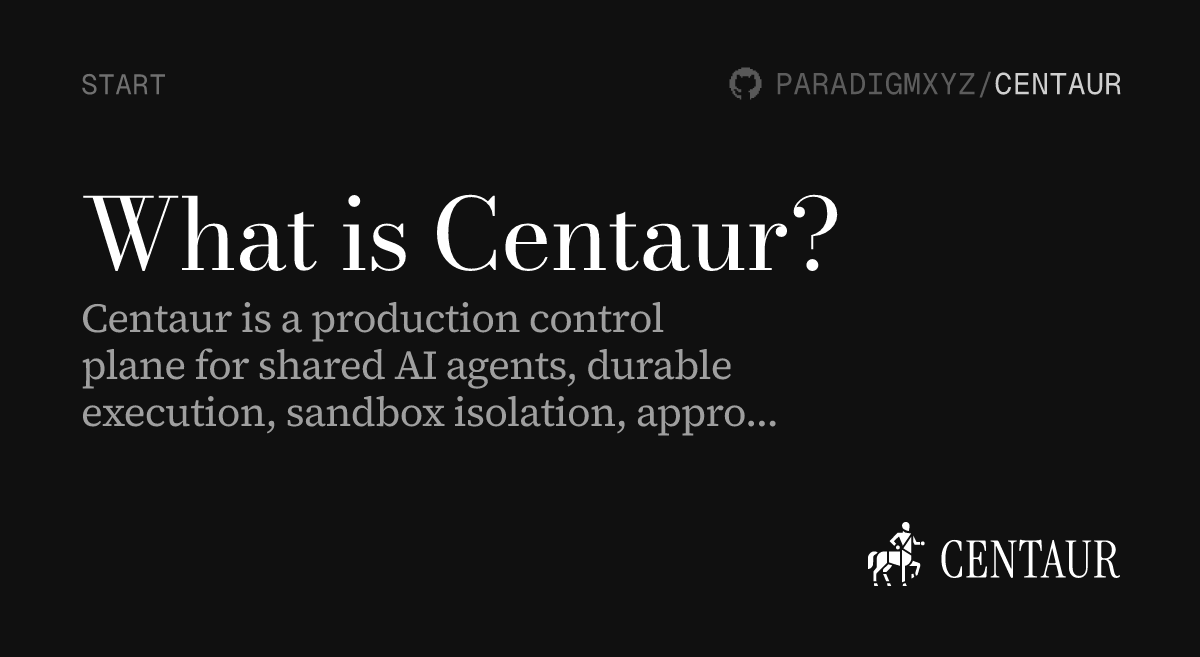
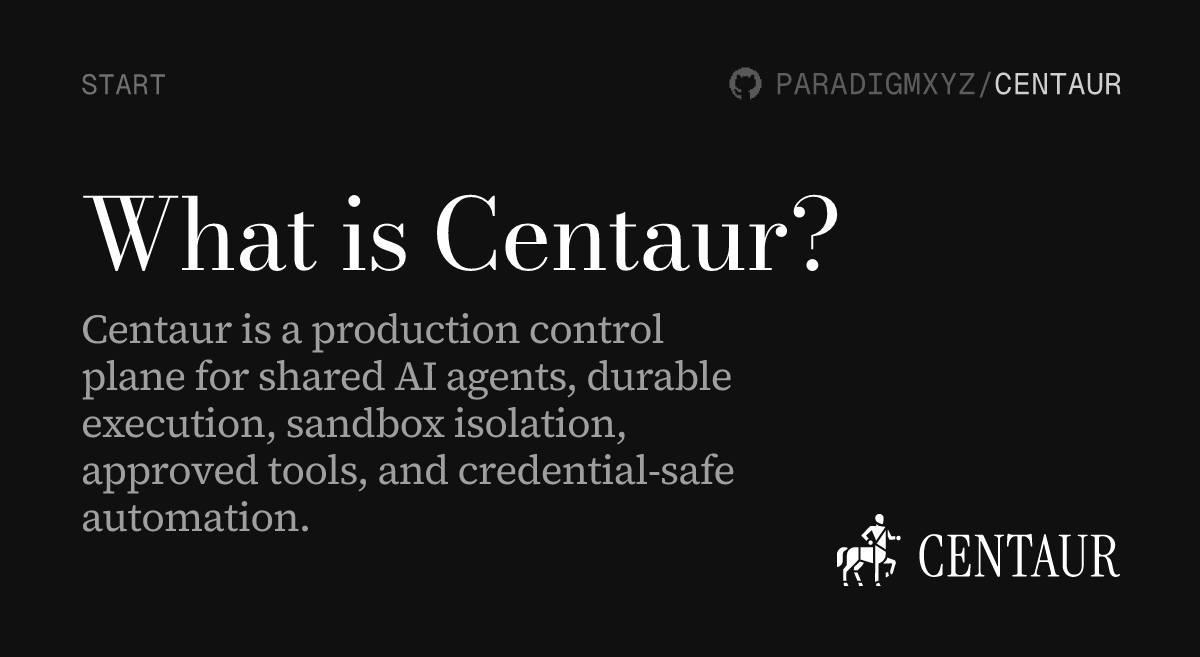
docs(og): adopt new template + image, no-truncate description wrap
- Replace docs/scripts/og-template.svg with og-template-a.svg export
  from the latest Figma source. Patch CATEGORY id + Geist Mono font on
  the static eyebrow/repo-label tspans so resvg's loaded fonts render
  with correct kerning (Berkeley Mono Variable falls back unpredictably
  and was making PARADIGMXYZ/CENTAUR collide).
- Replace docs/public/brand/og-image.svg with the matching homepage
  export; same font swap on the bottom repo label.
- Drop wrapText's ellipsis fallback — descriptions now wrap to as many
  lines as needed (soft cap 5) instead of being truncated with '…'.
- Bump TITLE_TO_DESC_BASELINE_GAP 62 -> 73 to match the new template's
  visual spacing — the previous gap felt squished.
- Raise DESC_BASELINE_MAX_Y 470 -> 540 so dense pages (e.g. /security
  with a 2-line title + 5-line description) don't push the title above
  the eyebrow. Text on the left and the centaur silhouette on the right
  don't overlap horizontally so the extra vertical room is safe.

Changed region(s): [[0.0617, 0.4566, 0.6475, 0.6697], [0.0617, 0.7002, 0.6167, 0.8219], [0.6783, 0.7915, 0.9558, 0.8828]]

diff --git a/docs/scripts/build-og.ts b/docs/scripts/build-og.ts
@@ -202,17 +202,17 @@ function balanceLines(text: string, fontSize: number, maxWidth = 1050): string[]
   ]
 }
 
-// Wrap description text to fit `maxChars` per line, capping at `maxLines`
-// and adding an ellipsis to the final line if there's overflow.
+// Wrap description text to fit `maxChars` per line. Never truncates or
+// adds an ellipsis — overflow simply produces more lines. `maxLines` is
+// kept as a soft safety cap so a runaway description doesn't blow past
+// the centaur silhouette; in practice every page description fits within
+// it. The vertical layout (`computeStackY`) lifts the title baseline up
+// to accommodate however many lines come back here.
 function wrapText(text: string, maxChars: number, maxLines: number): string[] {
   const words = text.split(' ')
   const lines: string[] = []
   let cur = ''
   for (const w of words) {
-    if (lines.length >= maxLines - 1 && `${cur} ${w}`.length > maxChars) {
-      lines.push(`${`${cur} ${w}`.slice(0, maxChars - 1)}\u2026`)
-      return lines
-    }
     if (cur && `${cur} ${w}`.length > maxChars) {
       lines.push(cur)
       cur = w
@@ -238,8 +238,13 @@ const EYEBROW_BASELINE_Y = 94.18
 const DEFAULT_TITLE_BASELINE_Y = 270
 const TITLE_LINE_H = 89
 const DESC_LINE_H = 47
-const TITLE_TO_DESC_BASELINE_GAP = 62
-const DESC_BASELINE_MAX_Y = 470
+const TITLE_TO_DESC_BASELINE_GAP = 73
+// Description text occupies the left ~67% of the canvas (x=81..~820 after
+// 36-char wrap) while the centaur silhouette is bottom-right anchored at
+// x=868..1120, y=522..586. The two never overlap horizontally, so the
+// last description baseline is free to extend down to ~y=540 without
+// visually crashing into the logo.
+const DESC_BASELINE_MAX_Y = 540
 
 function computeStackY(nTitle: number, nDesc: number) {
   const titleStackHeight = Math.max(0, nTitle - 1) * TITLE_LINE_H
@@ -289,7 +294,7 @@ function buildSvg(
   // Wrap descriptions tighter so they don't crash into the centaur
   // silhouette in the bottom-right (~x=868). 36 chars * ~20px ≈ 720px
   // of text width leaves a comfortable 20px+ gap from the logo edge.
-  const descLines = description ? wrapText(description, 36, 3) : []
+  const descLines = description ? wrapText(description, 36, 5) : []
   const { eyebrowBaseline, titleBaselines, descBaselines } = computeStackY(
     titleLines.length,
     descLines.length,
